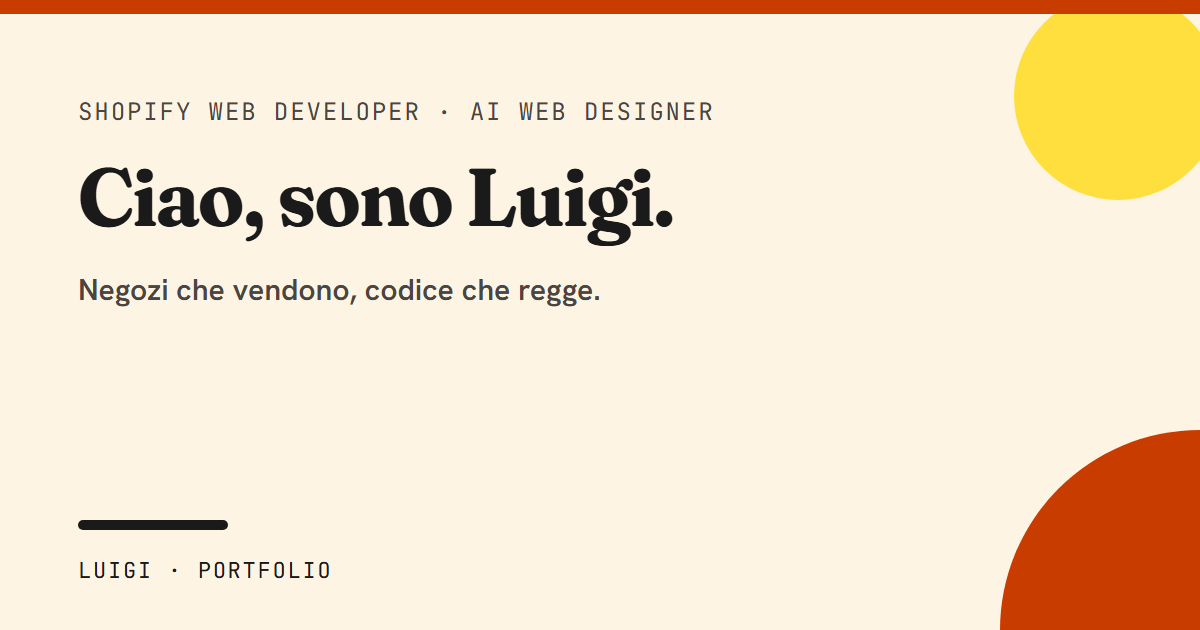
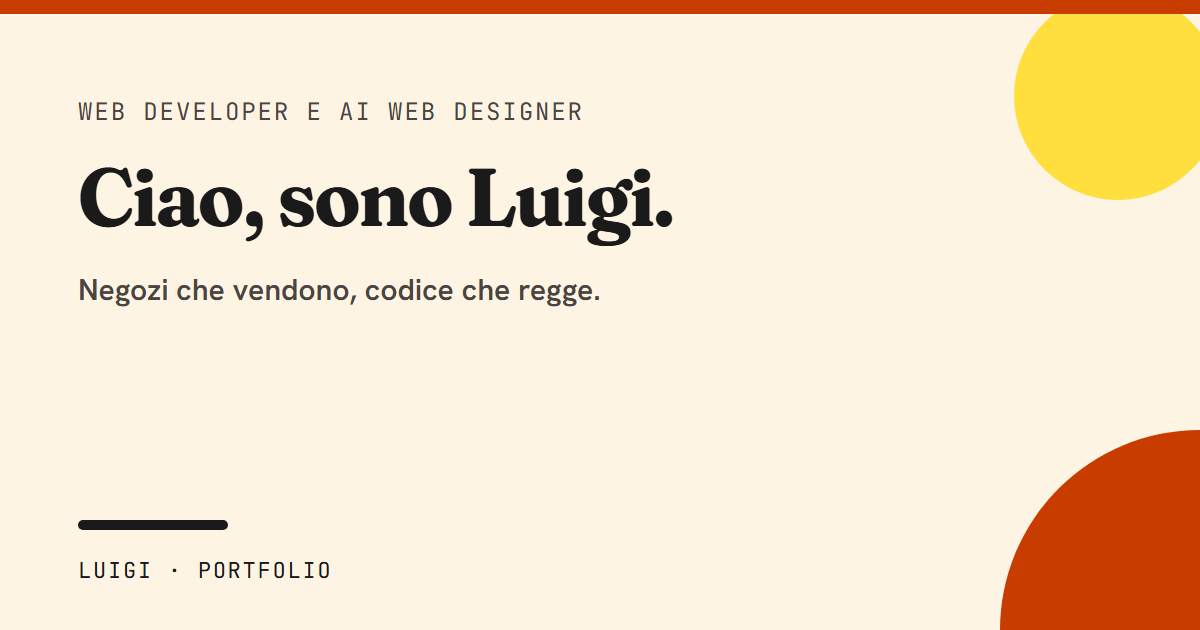
content: contatti, footer e anteprima senza Shopify, nuova regola 5
- Contatti: "Discutiamone insieme." e una riga sola per i due percorsi.
- Footer e og-image della home: "Web Developer e AI Web Designer".
- Meta della home: "Creo e seguo siti e negozi online, anche su Shopify."
- fornace-vietri.md: il laboratorio non gestisce più "da solo".
- CLAUDE.md: regola 5 riscritta (niente ironia salvo la tazza, il
  cliente non resta mai solo).
- prepara-og: legge il Fraunces self-hosted, il pacchetto
  @fontsource-variable/fraunces non è più installato.

diff --git a/CLAUDE.md b/CLAUDE.md
@@ -20,7 +20,7 @@ Deploy Vercel. Nessuna altra libreria UI/animazione senza il mio ok esplicito.
 2. Mobile-first: progetta a 390px, poi 768, poi 1280. Verifica ogni pagina con Playwright a 390 e 1280 prima di dire "fatto".
 3. Una fase alla volta (vedi MASTER_PROMPT.md). Alla fine di ogni fase: `npm run build` senza errori, screenshot, commit, poi FERMATI e chiedi conferma.
 4. Commit piccoli con messaggi in italiano: `feat(hero): switch target`, `fix(mobile): overflow card`.
-5. Testi: frasi brevi e decise, comprensibili sia a un negoziante sia a un'azienda, professionali senza termini tecnici inutili. Lessico da docs/voce.md. Niente due punti a effetto, niente superlativi. Ironia lieve ammessa solo in punti marginali: easter egg della tazza, 404, footer, messaggi di conferma. Mai in hero, progetti e inviti al contatto.
+5. Testi: diretti e semplici, comprensibili al primo colpo sia da un negoziante sia da un'azienda. Niente paroloni, niente giri di parole, niente giochi di parole, niente ironia: l'unica eccezione è l'easter egg della tazza. Termini tecnici solo quando servono a spiegare qualcosa, di solito dentro i progetti. Il cliente non viene mai lasciato solo: il sito è suo e io resto al suo fianco. Niente due punti a effetto, niente superlativi.
 6. Accessibilità: contrasto AA sui token, focus visibile, `prefers-reduced-motion` disattiva GSAP e il 3D.
 7. Performance: immagini in `<Image>` di Astro (webp/avif), font self-hosted con `font-display: swap`, .glb < 1 MB, Lighthouse mobile ≥ 90. Lighthouse si misura sulla build di preview, mai sul dev server, come mediana di 3 run. La verifica di performance è una fase dedicata a fine progetto, non un controllo a ogni fase. I test Playwright si eseguono sulla build di preview, mai sul dev server: sul dev server 404 e sitemap danno falsi negativi.
 8. Non inventare dati per il caso reale: usa solo quelli in `docs/content/caso-reale.md`. Nome dello store e logo sempre anonimizzati.

diff --git a/docs/STATO.md b/docs/STATO.md
@@ -135,8 +135,15 @@ visibili a riposo) non è stato toccato.
   prototipo e passo online riscritti ("resto al tuo fianco" al posto di "ti lascio le
   istruzioni per gestirlo da solo"), stack business `Uso strumenti standard e diffusi. Il sito
   resta tuo, e io resto a disposizione.` al posto di "se un giorno non ci sono io". Shopify
-  resta nello stack, nel caso reale e nei contatti dev; restano da decidere footer, meta della
-  home e og-image, che dicono ancora `Shopify Web Developer`.
+  resta nello stack e nel caso reale. Stesso giorno: footer e og-image della home `Web Developer
+  e AI Web Designer`, meta della home `Luigi Romano, web developer e AI web designer. Creo e
+  seguo siti e negozi online, anche su Shopify.`; `/contatti` con un titolo e una riga soli per
+  i due percorsi (`Discutiamone insieme.` + `Cerchi uno sviluppatore per il tuo team o per
+  creare e gestire il tuo sito? Contattami.`). Regola 5 di `CLAUDE.md` riscritta da Luigi:
+  niente ironia salvo la tazza, il cliente non resta mai solo. `prepara-og.mjs` ora legge il
+  Fraunces self-hosted (`src/assets/fonts/`): il pacchetto `@fontsource-variable/fraunces` non
+  c'è più. Rigenerata solo `og.png`; le altre og, rifatte con il nuovo file, differivano solo
+  nell'antialiasing e sono state lasciate com'erano.
 
 - **Prova sopra la piega nell'hero (2026-09-22).** Risponde a due punti della passata 2 di
   `docs/AUDIT.md`: il 3 (i numeri veri stavano a due click dalla home) e il 5 (lo switch cambiava

diff --git a/docs/content/fornace-vietri.md b/docs/content/fornace-vietri.md
@@ -20,7 +20,7 @@ Ogni pezzo esiste in una sola copia. Due piatti "uguali" hanno decorazioni diver
 
 Shopify è pensato per prodotti in serie: un prodotto, tante taglie o colori, una giacenza. Qui funziona al contrario, ogni pezzo è un prodotto a sé con giacenza 1, e quando lo vendi sparisce.
 
-In più il laboratorio aggiorna il negozio da solo, dal telefono, tra un'infornata e l'altra. Tutto quello che costruisco deve restare semplice da gestire per chi non è tecnico.
+In più il laboratorio carica i pezzi dal telefono, tra un'infornata e l'altra. Quello che costruisco deve essere semplice da usare ogni giorno, e per il resto ci sono io.
 
 ## I vincoli
 
@@ -74,7 +74,7 @@ Più un quadro con le tre card affiancate nei tre stati: è l'immagine che spieg
 ## Cosa ho imparato
 
 - Shopify si può piegare anche a chi non vende in serie, ma va deciso all'inizio, non aggiustato dopo.
-- Per chi gestisce da solo, ogni campo in più nella scheda prodotto è un campo che prima o poi resta vuoto.
+- Per chi carica i prodotti dal telefono, ogni campo in più nella scheda è un campo che prima o poi resta vuoto.
 - Un "esaurito" è una porta chiusa. Un "Venduto, richiedine uno simile" è una conversazione che inizia.
 
 ## Nel negozio vero farei
